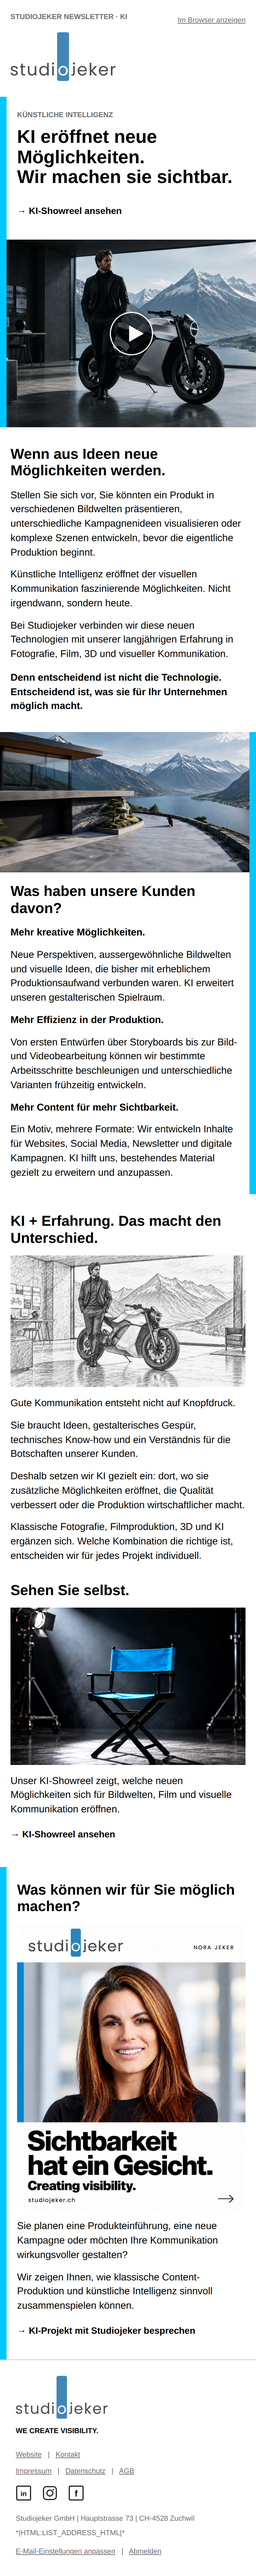
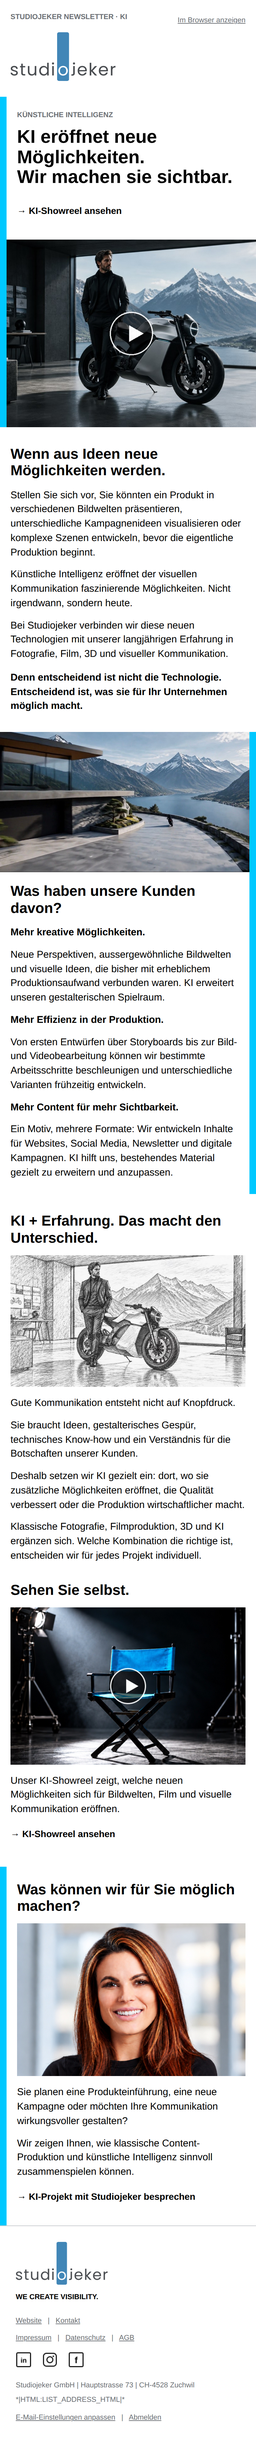
Add the showreel play button and replace the Nora portrait.
The chair links to the KI showreel. No other newsletter content changes.

diff --git a/mailchimp/studiojeker-newsletter-ki.html b/mailchimp/studiojeker-newsletter-ki.html
@@ -38,8 +38,8 @@ a:focus-visible {outline:2px solid #000000;outline-offset:3px;}
 <tr><td class="sj-section" style="padding:28px 20px 0 20px;background-color:#ffffff;"><h2 class="sj-heading" mc:edit="intro_headline" style="font-family:'Helvetica Now Display','HelveticaNeue-Black','Helvetica Neue Black','Arial Black','Helvetica Neue',Helvetica,Arial,sans-serif;font-size:24px;line-height:27.6px;font-weight:900;font-synthesis:none;color:#000000;margin:0 0 14px 0;">Wenn aus Ideen neue Möglichkeiten werden.</h2><div mc:edit="intro_body" style="font-family:Arial,Helvetica,sans-serif;font-size:15px;line-height:21.75px;font-weight:400;color:#000000;"><p style="font-family:Arial,Helvetica,sans-serif;font-size:15px;line-height:21.75px;font-weight:400;color:#000000;margin:0 0 12px 0;">Stellen Sie sich vor, Sie könnten ein Produkt in verschiedenen Bildwelten präsentieren, unterschiedliche Kampagnenideen visualisieren oder komplexe Szenen entwickeln, bevor die eigentliche Produktion beginnt.</p><p style="font-family:Arial,Helvetica,sans-serif;font-size:15px;line-height:21.75px;font-weight:400;color:#000000;margin:0 0 12px 0;">Künstliche Intelligenz eröffnet der visuellen Kommunikation faszinierende Möglichkeiten. Nicht irgendwann, sondern heute.</p><p style="font-family:Arial,Helvetica,sans-serif;font-size:15px;line-height:21.75px;font-weight:400;color:#000000;margin:0;">Bei Studiojeker verbinden wir diese neuen Technologien mit unserer langjährigen Erfahrung in Fotografie, Film, 3D und visueller Kommunikation.</p></div><p mc:edit="intro_claim" style="font-family:Arial,Helvetica,sans-serif;font-size:15px;line-height:21.75px;font-weight:700;color:#000000;margin:14px 0 0 0;">Denn entscheidend ist nicht die Technologie. Entscheidend ist, was sie für Ihr Unternehmen möglich macht.</p></td></tr>
 <tr><td class="sj-bleed" style="padding:28px 0 0 0;background-color:#ffffff;"><table role="presentation" border="0" cellpadding="0" cellspacing="0" width="100%"><tr><td class="sj-ai-inner" style="padding:22px 20px;"><table role="presentation" border="0" cellpadding="0" cellspacing="0" width="100%"><tr><td class="sj-stack sj-ai-photo" width="48%" valign="top" style="width:48%;vertical-align:top;padding:0 18px 0 0;"><img mc:edit="scene_image" src="https://raw.githubusercontent.com/mjeker99-collab/studiojeker-website/e8949b399a1e2a0efe2a1999fd0263348d2669e0/mailchimp/newsletter-ki/assets/ki-motorrad-szene.jpg" width="300" height="169" alt="KI-Motorradszene – Fahrt über eine Alpenterrasse" style="display:block;width:100%;height:auto;border:0;outline:none;-ms-interpolation-mode:bicubic;" /></td><td class="sj-stack sj-ai-text" width="52%" valign="top" style="width:52%;vertical-align:top;padding:0;"><h2 class="sj-heading" mc:edit="benefits_headline" style="font-family:'Helvetica Now Display','HelveticaNeue-Black','Helvetica Neue Black','Arial Black','Helvetica Neue',Helvetica,Arial,sans-serif;font-size:24px;line-height:27.6px;font-weight:900;font-synthesis:none;color:#000000;margin:0 0 14px 0;">Was haben unsere Kunden davon?</h2><div mc:edit="benefit_creative" style="font-family:Arial,Helvetica,sans-serif;font-size:15px;line-height:21.75px;font-weight:400;color:#000000;"><p style="font-family:Arial,Helvetica,sans-serif;font-size:15px;line-height:21.75px;font-weight:700;color:#000000;margin:0 0 12px 0;">Mehr kreative Möglichkeiten.</p><p style="font-family:Arial,Helvetica,sans-serif;font-size:15px;line-height:21.75px;font-weight:400;color:#000000;margin:0;">Neue Perspektiven, aussergewöhnliche Bildwelten und visuelle Ideen, die bisher mit erheblichem Produktionsaufwand verbunden waren. KI erweitert unseren gestalterischen Spielraum.</p></div></td></tr></table><div class="sj-ai-continuation" mc:edit="benefits_continuation" style="font-family:Arial,Helvetica,sans-serif;font-size:15px;line-height:21.75px;font-weight:400;color:#000000;padding-top:14px;"><p style="font-family:Arial,Helvetica,sans-serif;font-size:15px;line-height:21.75px;font-weight:700;color:#000000;margin:0 0 12px 0;">Mehr Effizienz in der Produktion.</p><p style="font-family:Arial,Helvetica,sans-serif;font-size:15px;line-height:21.75px;font-weight:400;color:#000000;margin:0 0 12px 0;">Von ersten Entwürfen über Storyboards bis zur Bild- und Videobearbeitung können wir bestimmte Arbeitsschritte beschleunigen und unterschiedliche Varianten frühzeitig entwickeln.</p><p style="font-family:Arial,Helvetica,sans-serif;font-size:15px;line-height:21.75px;font-weight:700;color:#000000;margin:0 0 12px 0;">Mehr Content für mehr Sichtbarkeit.</p><p style="font-family:Arial,Helvetica,sans-serif;font-size:15px;line-height:21.75px;font-weight:400;color:#000000;margin:0;">Ein Motiv, mehrere Formate: Wir entwickeln Inhalte für Websites, Social Media, Newsletter und digitale Kampagnen. KI hilft uns, bestehendes Material gezielt zu erweitern und anzupassen.</p></div></td><td class="sj-bar" width="10" bgcolor="#00c8ff" style="width:10px;min-width:10px;max-width:10px;background-color:#00c8ff;font-size:0;line-height:0;">&nbsp;</td></tr></table></td></tr>
 <tr><td class="sj-section" style="padding:28px 20px 0 20px;background-color:#ffffff;"><h2 class="sj-heading" mc:edit="experience_headline" style="font-family:'Helvetica Now Display','HelveticaNeue-Black','Helvetica Neue Black','Arial Black','Helvetica Neue',Helvetica,Arial,sans-serif;font-size:24px;line-height:27.6px;font-weight:900;font-synthesis:none;color:#000000;margin:0 0 14px 0;">KI + Erfahrung. Das macht den Unterschied.</h2><img mc:edit="experience_image" src="https://raw.githubusercontent.com/mjeker99-collab/studiojeker-website/eb61ee26cf7a9e4355b385cb7233a8bd298ce970/mailchimp/newsletter-ki/assets/ki-erfahrung-scribble.jpg" width="1344" height="752" alt="KI-Motorradmotiv als Scribble" style="display:block;width:100%;height:auto;border:0;outline:none;-ms-interpolation-mode:bicubic;margin:0 0 14px 0;" /><div mc:edit="experience_body" style="font-family:Arial,Helvetica,sans-serif;font-size:15px;line-height:21.75px;font-weight:400;color:#000000;"><p style="font-family:Arial,Helvetica,sans-serif;font-size:15px;line-height:21.75px;font-weight:400;color:#000000;margin:0 0 12px 0;">Gute Kommunikation entsteht nicht auf Knopfdruck.</p><p style="font-family:Arial,Helvetica,sans-serif;font-size:15px;line-height:21.75px;font-weight:400;color:#000000;margin:0 0 12px 0;">Sie braucht Ideen, gestalterisches Gespür, technisches Know-how und ein Verständnis für die Botschaften unserer Kunden.</p><p style="font-family:Arial,Helvetica,sans-serif;font-size:15px;line-height:21.75px;font-weight:400;color:#000000;margin:0 0 12px 0;">Deshalb setzen wir KI gezielt ein: dort, wo sie zusätzliche Möglichkeiten eröffnet, die Qualität verbessert oder die Produktion wirtschaftlicher macht.</p><p style="font-family:Arial,Helvetica,sans-serif;font-size:15px;line-height:21.75px;font-weight:400;color:#000000;margin:0;">Klassische Fotografie, Filmproduktion, 3D und KI ergänzen sich. Welche Kombination die richtige ist, entscheiden wir für jedes Projekt individuell.</p></div></td></tr>
-<tr><td class="sj-section" style="padding:28px 20px 0 20px;background-color:#ffffff;"><h2 class="sj-heading" mc:edit="showreel_headline" style="font-family:'Helvetica Now Display','HelveticaNeue-Black','Helvetica Neue Black','Arial Black','Helvetica Neue',Helvetica,Arial,sans-serif;font-size:24px;line-height:27.6px;font-weight:900;font-synthesis:none;color:#000000;margin:0 0 14px 0;">Sehen Sie selbst.</h2><img mc:edit="showreel_image" src="https://raw.githubusercontent.com/mjeker99-collab/studiojeker-website/eb61ee26cf7a9e4355b385cb7233a8bd298ce970/mailchimp/newsletter-ki/assets/ki-showreel-stuhl.jpg" width="1536" height="1024" alt="Cyanblauer Regiestuhl auf der Bühne" style="display:block;width:100%;height:auto;border:0;outline:none;-ms-interpolation-mode:bicubic;margin:0 0 14px 0;" /><div mc:edit="showreel_body" style="font-family:Arial,Helvetica,sans-serif;font-size:15px;line-height:21.75px;font-weight:400;color:#000000;"><p style="font-family:Arial,Helvetica,sans-serif;font-size:15px;line-height:21.75px;font-weight:400;color:#000000;margin:0;">Unser KI-Showreel zeigt, welche neuen Möglichkeiten sich für Bildwelten, Film und visuelle Kommunikation eröffnen.</p></div><div mc:edit="showreel_cta" style="margin:4px 0 0 0;"><a class="sj-cta" href="https://vimeo.com/1228871502" target="_blank" style="font-family:Arial,Helvetica,sans-serif;font-size:14px;line-height:20px;font-weight:700;color:#000000;text-decoration:none;display:inline-block;padding:12px 0;">→ KI-Showreel ansehen</a></div></td></tr>
-<tr><td class="sj-bleed" style="padding:28px 0 0 0;background-color:#ffffff;"><table role="presentation" border="0" cellpadding="0" cellspacing="0" width="100%"><tr><td class="sj-bar" width="10" bgcolor="#00c8ff" style="width:10px;min-width:10px;max-width:10px;background-color:#00c8ff;font-size:0;line-height:0;">&nbsp;</td><td class="sj-section" style="padding:22px 20px;background-color:#ffffff;"><h2 class="sj-heading" mc:edit="close_headline" style="font-family:'Helvetica Now Display','HelveticaNeue-Black','Helvetica Neue Black','Arial Black','Helvetica Neue',Helvetica,Arial,sans-serif;font-size:24px;line-height:27.6px;font-weight:900;font-synthesis:none;color:#000000;margin:0 0 14px 0;">Was können wir für Sie möglich machen?</h2><img mc:edit="close_image" src="https://raw.githubusercontent.com/mjeker99-collab/studiojeker-website/eb61ee26cf7a9e4355b385cb7233a8bd298ce970/mailchimp/newsletter-ki/assets/ki-abschluss-nora.jpg" width="1122" height="1402" alt="Nora Jeker – Sichtbarkeit hat ein Gesicht" style="display:block;width:100%;height:auto;border:0;outline:none;-ms-interpolation-mode:bicubic;margin:0 0 14px 0;" /><div mc:edit="close_body" style="font-family:Arial,Helvetica,sans-serif;font-size:15px;line-height:21.75px;font-weight:400;color:#000000;"><p style="font-family:Arial,Helvetica,sans-serif;font-size:15px;line-height:21.75px;font-weight:400;color:#000000;margin:0 0 12px 0;">Sie planen eine Produkteinführung, eine neue Kampagne oder möchten Ihre Kommunikation wirkungsvoller gestalten?</p><p style="font-family:Arial,Helvetica,sans-serif;font-size:15px;line-height:21.75px;font-weight:400;color:#000000;margin:0;">Wir zeigen Ihnen, wie klassische Content-Produktion und künstliche Intelligenz sinnvoll zusammenspielen können.</p></div><div mc:edit="close_cta" style="margin:4px 0 0 0;"><a class="sj-cta" href="https://www.studiojeker.ch/contact/" target="_blank" style="font-family:Arial,Helvetica,sans-serif;font-size:14px;line-height:20px;font-weight:700;color:#000000;text-decoration:none;display:inline-block;padding:12px 0;">→ KI-Projekt mit Studiojeker besprechen</a></div></td></tr></table></td></tr>
+<tr><td class="sj-section" style="padding:28px 20px 0 20px;background-color:#ffffff;"><h2 class="sj-heading" mc:edit="showreel_headline" style="font-family:'Helvetica Now Display','HelveticaNeue-Black','Helvetica Neue Black','Arial Black','Helvetica Neue',Helvetica,Arial,sans-serif;font-size:24px;line-height:27.6px;font-weight:900;font-synthesis:none;color:#000000;margin:0 0 14px 0;">Sehen Sie selbst.</h2><a href="https://vimeo.com/1228871502" target="_blank" rel="noopener noreferrer" aria-label="KI-Showreel auf Vimeo ansehen" style="display:block;width:100%;border:0;text-decoration:none;font-size:0;line-height:0;"><img mc:edit="showreel_image" src="https://raw.githubusercontent.com/mjeker99-collab/studiojeker-website/42fbce53461a9be7f9308ceb1bee0097a6b70ded/mailchimp/newsletter-ki/assets/ki-showreel-stuhl-play.jpg" width="1536" height="1024" alt="Cyanblauer Regiestuhl auf der Bühne" style="display:block;width:100%;height:auto;border:0;outline:none;-ms-interpolation-mode:bicubic;margin:0 0 14px 0;" /></a><div mc:edit="showreel_body" style="font-family:Arial,Helvetica,sans-serif;font-size:15px;line-height:21.75px;font-weight:400;color:#000000;"><p style="font-family:Arial,Helvetica,sans-serif;font-size:15px;line-height:21.75px;font-weight:400;color:#000000;margin:0;">Unser KI-Showreel zeigt, welche neuen Möglichkeiten sich für Bildwelten, Film und visuelle Kommunikation eröffnen.</p></div><div mc:edit="showreel_cta" style="margin:4px 0 0 0;"><a class="sj-cta" href="https://vimeo.com/1228871502" target="_blank" style="font-family:Arial,Helvetica,sans-serif;font-size:14px;line-height:20px;font-weight:700;color:#000000;text-decoration:none;display:inline-block;padding:12px 0;">→ KI-Showreel ansehen</a></div></td></tr>
+<tr><td class="sj-bleed" style="padding:28px 0 0 0;background-color:#ffffff;"><table role="presentation" border="0" cellpadding="0" cellspacing="0" width="100%"><tr><td class="sj-bar" width="10" bgcolor="#00c8ff" style="width:10px;min-width:10px;max-width:10px;background-color:#00c8ff;font-size:0;line-height:0;">&nbsp;</td><td class="sj-section" style="padding:22px 20px;background-color:#ffffff;"><h2 class="sj-heading" mc:edit="close_headline" style="font-family:'Helvetica Now Display','HelveticaNeue-Black','Helvetica Neue Black','Arial Black','Helvetica Neue',Helvetica,Arial,sans-serif;font-size:24px;line-height:27.6px;font-weight:900;font-synthesis:none;color:#000000;margin:0 0 14px 0;">Was können wir für Sie möglich machen?</h2><img mc:edit="close_image" src="https://raw.githubusercontent.com/mjeker99-collab/studiojeker-website/42fbce53461a9be7f9308ceb1bee0097a6b70ded/mailchimp/newsletter-ki/assets/ki-abschluss-nora-portrait.jpg" width="1536" height="1024" alt="Nora Jeker" style="display:block;width:100%;height:auto;border:0;outline:none;-ms-interpolation-mode:bicubic;margin:0 0 14px 0;" /><div mc:edit="close_body" style="font-family:Arial,Helvetica,sans-serif;font-size:15px;line-height:21.75px;font-weight:400;color:#000000;"><p style="font-family:Arial,Helvetica,sans-serif;font-size:15px;line-height:21.75px;font-weight:400;color:#000000;margin:0 0 12px 0;">Sie planen eine Produkteinführung, eine neue Kampagne oder möchten Ihre Kommunikation wirkungsvoller gestalten?</p><p style="font-family:Arial,Helvetica,sans-serif;font-size:15px;line-height:21.75px;font-weight:400;color:#000000;margin:0;">Wir zeigen Ihnen, wie klassische Content-Produktion und künstliche Intelligenz sinnvoll zusammenspielen können.</p></div><div mc:edit="close_cta" style="margin:4px 0 0 0;"><a class="sj-cta" href="https://www.studiojeker.ch/contact/" target="_blank" style="font-family:Arial,Helvetica,sans-serif;font-size:14px;line-height:20px;font-weight:700;color:#000000;text-decoration:none;display:inline-block;padding:12px 0;">→ KI-Projekt mit Studiojeker besprechen</a></div></td></tr></table></td></tr>
 <tr><td class="sj-section sj-footer" style="padding:24px 24px 28px 24px;border-top:1px solid #c8ccd0;background-color:#ffffff;"><table class="sj-footer-layout" role="presentation" border="0" cellpadding="0" cellspacing="0" width="100%" style="width:100%;border-collapse:collapse;mso-table-lspace:0pt;mso-table-rspace:0pt;" ><tr><td class="sj-stack sj-footer-brand" width="50%" valign="top" style="width:50%;vertical-align:top;"><a href="https://www.studiojeker.ch/"><img mc:edit="footer_logo" src="https://cdn.jsdelivr.net/gh/mjeker99-collab/studiojeker-website@9584d5e/mailchimp/placeholders/logo.png" width="140" height="65" alt="Studiojeker" style="display:block;width:140px;height:auto;border:0;" /></a><div mc:edit="footer_claim" style="font-family:Arial,Helvetica,sans-serif;font-size:11px;line-height:15.95px;font-weight:700;margin-top:12px;color:#000000;">WE CREATE VISIBILITY.</div></td><td class="sj-stack sj-footer-links" rowspan="3" width="50%" valign="bottom" align="right" style="width:50%;vertical-align:bottom;text-align:right;padding-top:0;"><div mc:edit="footer_nav" style="font-family:Arial,Helvetica,sans-serif;font-size:11px;line-height:15.95px;color:#6b6f74;"><a href="https://www.studiojeker.ch/" style="color:#6b6f74;text-decoration:underline;">Website</a> &nbsp; | &nbsp; <a href="https://www.studiojeker.ch/contact/" style="color:#6b6f74;text-decoration:underline;">Kontakt</a></div><div mc:edit="footer_legal" style="font-family:Arial,Helvetica,sans-serif;font-size:11px;line-height:15.95px;color:#6b6f74;padding-top:10px;"><a href="https://www.studiojeker.ch/impressum/" style="color:#6b6f74;text-decoration:underline;">Impressum</a> &nbsp; | &nbsp; <a href="https://www.studiojeker.ch/datenschutz/" style="color:#6b6f74;text-decoration:underline;">Datenschutz</a> &nbsp; | &nbsp; <a href="https://www.studiojeker.ch/agb/" style="color:#6b6f74;text-decoration:underline;">AGB</a></div><table role="presentation" border="0" cellpadding="0" cellspacing="0" align="right" class="sj-social-table" style="margin-top:12px;"><tr><td width="32" style="width:32px;padding:0 8px 0 0;"><a href="https://www.linkedin.com/company/studiojeker/" target="_blank"><img src="https://cdn.jsdelivr.net/gh/mjeker99-collab/studiojeker-website@9584d5e/mailchimp/placeholders/icon_linkedin.png" width="24" height="24" alt="LinkedIn" style="display:block;width:24px;height:24px;border:0;" /></a></td><td width="32" style="width:32px;padding:0 8px 0 0;"><a href="https://www.instagram.com/studiojeker/" target="_blank"><img src="https://cdn.jsdelivr.net/gh/mjeker99-collab/studiojeker-website@9584d5e/mailchimp/placeholders/icon_instagram.png" width="24" height="24" alt="Instagram" style="display:block;width:24px;height:24px;border:0;" /></a></td><td width="32" style="width:32px;padding:0 8px 0 0;"><a href="https://www.facebook.com/studiojeker/" target="_blank"><img src="https://cdn.jsdelivr.net/gh/mjeker99-collab/studiojeker-website@9584d5e/mailchimp/placeholders/icon_facebook.png" width="24" height="24" alt="Facebook" style="display:block;width:24px;height:24px;border:0;" /></a></td></tr></table></td></tr><tr><td class="sj-footer-details" style="font-family:Arial,Helvetica,sans-serif;font-size:11px;line-height:15.95px;color:#6b6f74;padding-top:20px;"><div mc:edit="footer_company">Studiojeker GmbH | Hauptstrasse 73 | CH-4528 Zuchwil</div><div style="margin-top:6px;">*|HTML:LIST_ADDRESS_HTML|*</div></td></tr><tr><td class="sj-footer-details" style="font-family:Arial,Helvetica,sans-serif;font-size:11px;line-height:15.95px;color:#6b6f74;padding-top:12px;"><a href="*|UPDATE_PROFILE|*" style="color:#6b6f74;text-decoration:underline;">E-Mail-Einstellungen anpassen</a> &nbsp; | &nbsp; <a href="*|UNSUB|*" style="color:#6b6f74;text-decoration:underline;">Abmelden</a></td></tr></table></td></tr></table>
 <!--[if mso]></td></tr></table><![endif]-->
 </center></body></html>
